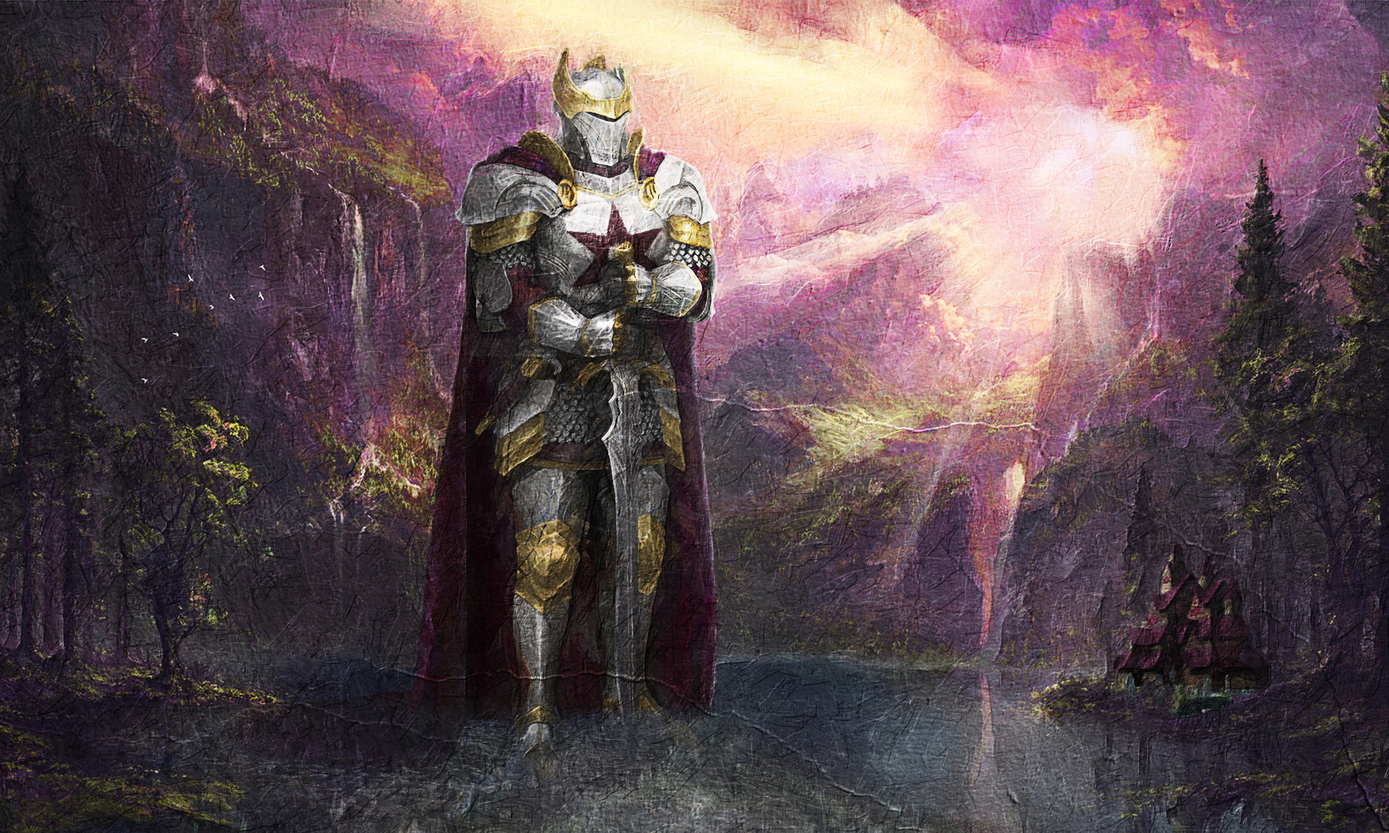
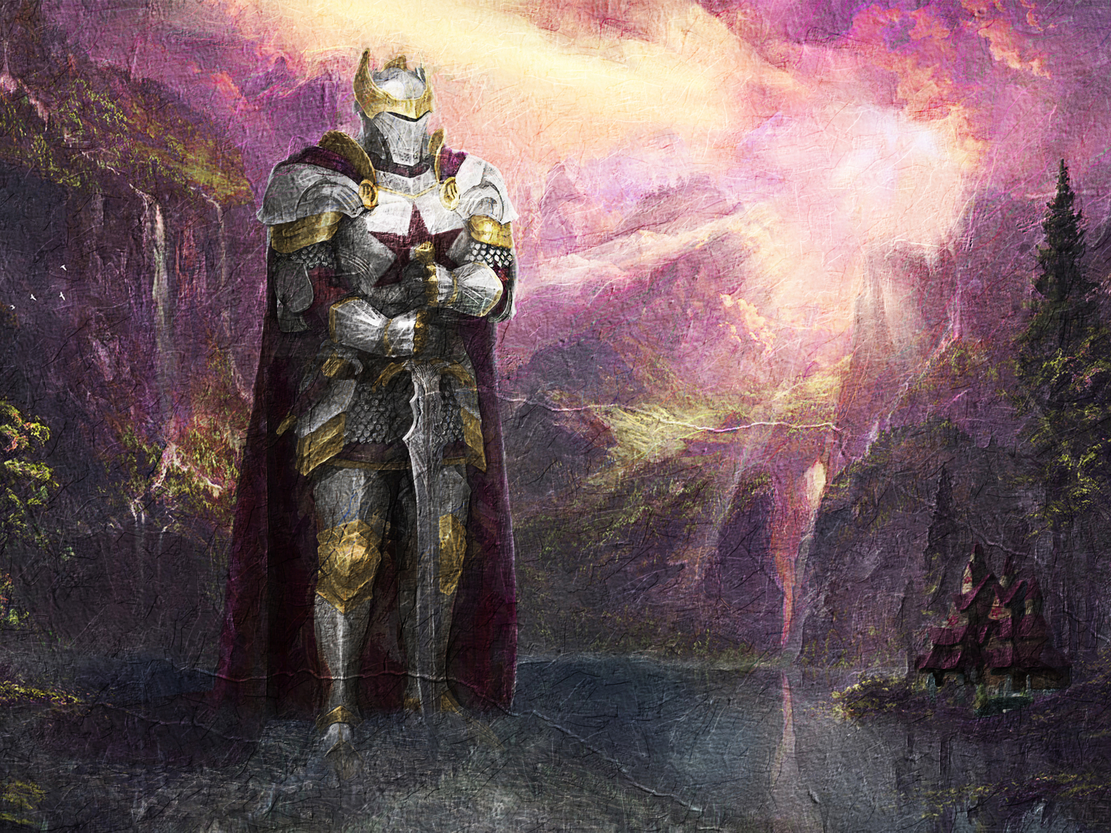
Croping Illustrations

diff --git a/index.html b/index.html
@@ -54,7 +54,7 @@
                             <img src="assets/illustrations/Hateus.jpg" alt="Hateus">
                         </li>
                         <li class="illus__slide">
-                            <img src="assets/illustrations/Alrund.jpg" alt="Heliod">
+                            <img src="assets/illustrations/Dadroz.jpg" alt="Dadroz">
                         </li>
                         <li class="illus__slide">
                             <img src="assets/illustrations/Phara.jpg" alt="Phara">
@@ -63,7 +63,7 @@
                             <img src="assets/illustrations/Inanis.jpg" alt="Inanis">
                         </li>
                         <li class="illus__slide">
-                            <img src="assets/illustrations/Alrund.jpg" alt="Heliod">
+                            <img src="assets/illustrations/Arkoneth.jpg" alt="Arkoneth">
                         </li>
                         <li class="illus__slide">
                             <img src="assets/illustrations/Phara.jpg" alt="Phara">
